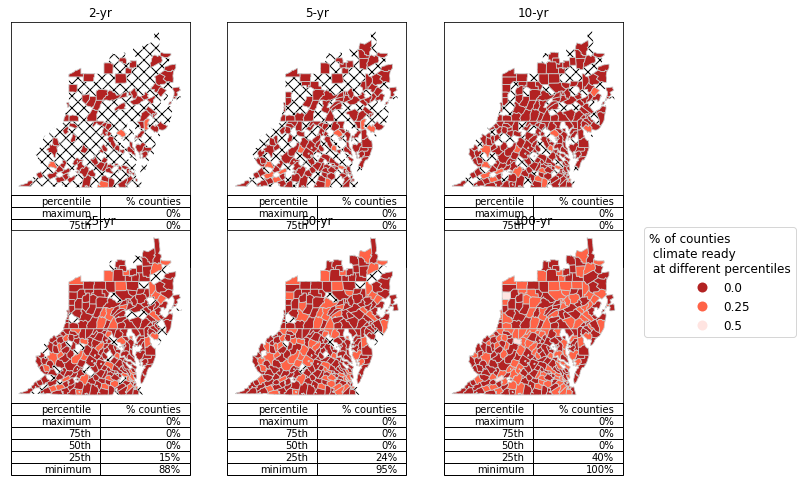
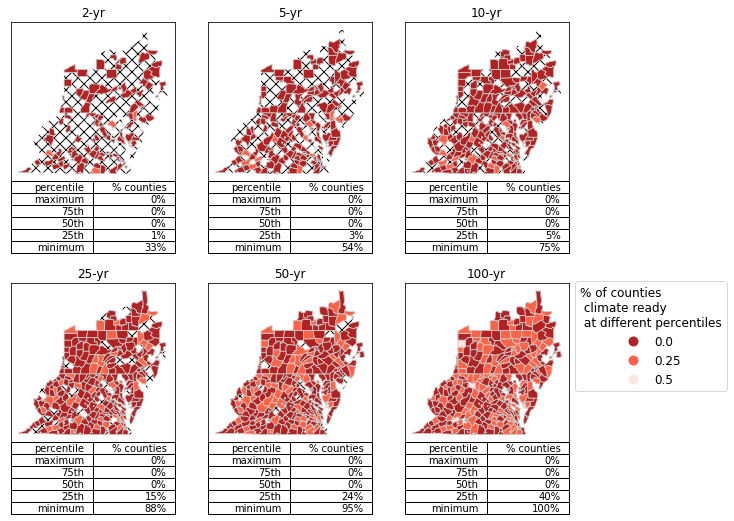
Update atlasmedian_percentiles.py and output
Update spacing of panels in figures representing uncertainty in RCP percentiles

diff --git a/IDFcurves_atlasmedian_percentiles.py b/IDFcurves_atlasmedian_percentiles.py
@@ -517,7 +517,7 @@ for i in range(len(col_listwgrey)):
 
 #method for plotting multiple maps at the same time
 def multiplemaps(listname, titletosave): #with shared legend
-    fig, axs = plt.subplots(2, 3, figsize = (11, 7))
+    fig, axs = plt.subplots(2, 3, figsize = (10, 8.8))
     axs = axs.flatten()
     #vmin, vmax = 0.0, 1.0
     for i in range(len(RP_list)): #6 RPs
